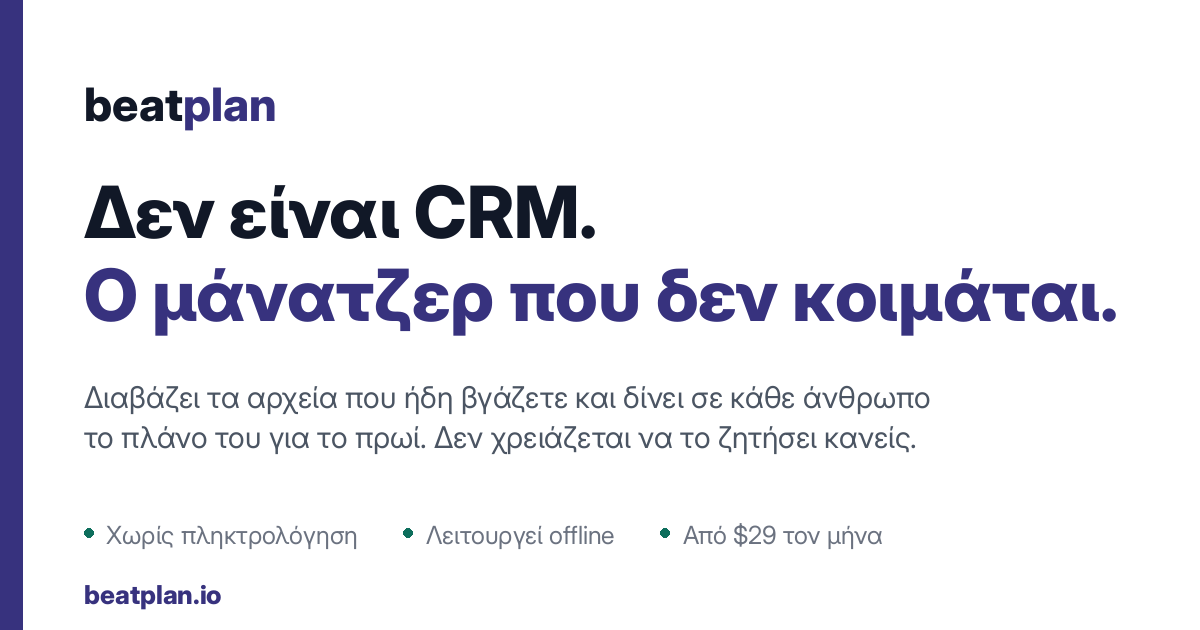
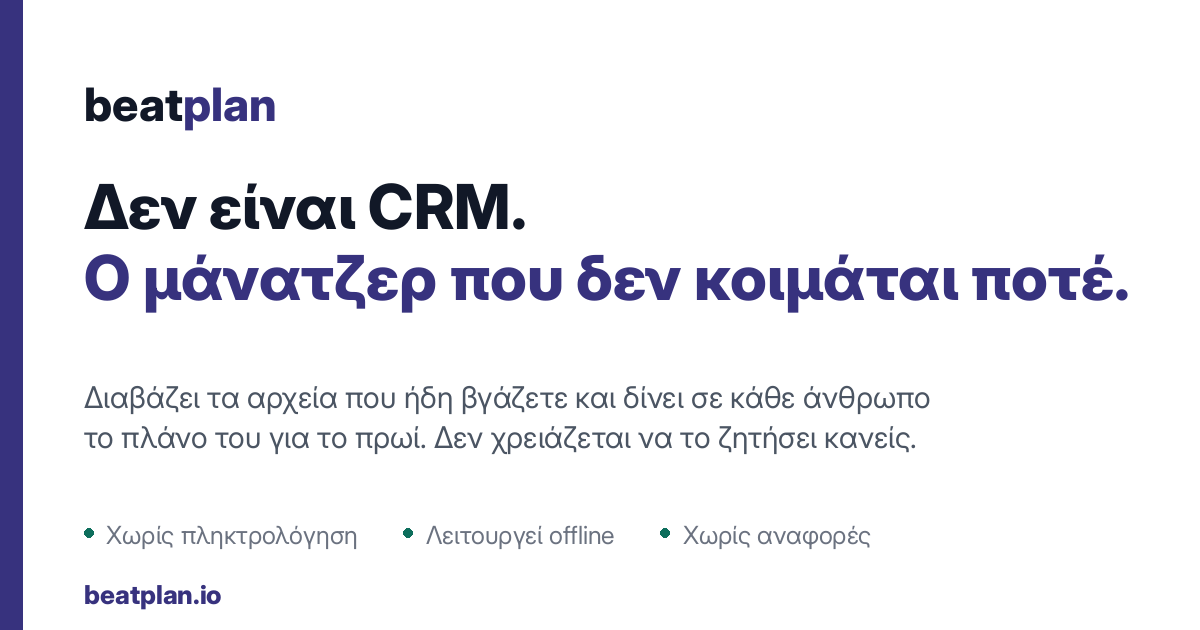
Take the price off the share card, and say never in Greek
The OG card is what LinkedIn and WhatsApp draw whenever beatplan.io is
pasted, and both language versions carried "From $29 a month". No price
belongs on a public Beatplan asset. The third bullet now names what the
product removes instead.

The Greek tagline dropped "ποτέ" in the og:title and on the Greek card,
so the site said the manager does not sleep while the video says it
never sleeps.

Claude-Session: https://claude.ai/code/session_016bfyM8CQXRf3DiRb359vyP

Changed region(s): [[0.0617, 0.2714, 0.9558, 0.5429], [0.555, 0.8143, 0.74, 0.8746]]

diff --git a/el/index.html b/el/index.html
@@ -6,7 +6,7 @@
 <title>Beatplan, το πλάνο της ημέρας, υπολογισμένο κάθε πρωί</title>
 <meta name="description" content="Δεν είναι CRM. Διαβάζει τα αρχεία που ήδη παράγετε, βρίσκει τι ξέφυγε, και δίνει σε κάθε άνθρωπο και κάθε τμήμα τη λίστα του για το πρωί.">
 <meta property="og:type" content="website">
-<meta property="og:title" content="Beatplan. Ο μάνατζερ που δεν κοιμάται.">
+<meta property="og:title" content="Beatplan. Ο μάνατζερ που δεν κοιμάται ποτέ.">
 <meta property="og:description" content="Διαβάζει τα αρχεία που ήδη βγάζετε και δίνει σε κάθε άνθρωπο το πλάνο του για το πρωί.">
 <meta property="og:url" content="https://beatplan.io/el/">
 <meta property="og:image" content="https://beatplan.io/og-el.png">
